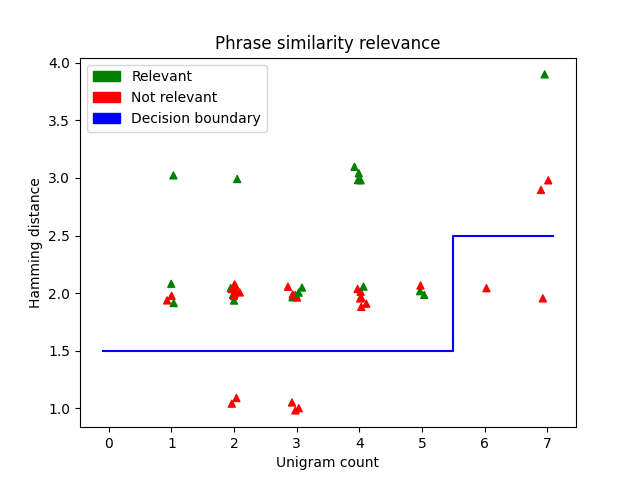
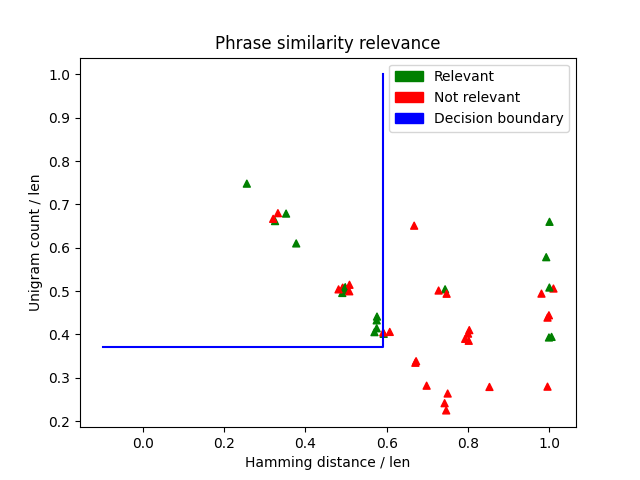
More on decision tree classifier for similar phrases

diff --git a/chinesenotes/plot_sim_training.py b/chinesenotes/plot_sim_training.py
@@ -45,19 +45,19 @@ def PlotResults(infile, outfile):
     if y[i] == 0:
       c = 'r'
     colors.append(c)
-    new_xval = x2[i] + random.normal(0.0, 0.05)
+    new_xval = x1[i] + random.normal(0.0, 0.01)
     x_fn_jitter.append(new_xval)
-    new_yval = x1[i] + random.normal(0.0, 0.05)
+    new_yval = x2[i] + random.normal(0.0, 0.01)
     y_fn_jitter.append(new_yval)
   #plt.figure(num=None, figsize=(4, 6))
   #plt.subplot(121)
   plt.scatter(x_fn_jitter, y_fn_jitter, c=colors, s=25, marker='^')
-  xd = [-0.1, 5.5, 5.5, 7.1]
-  yd = [1.5, 1.5, 2.5, 2.5]
+  xd = [-0.1, 0.59, 0.59]
+  yd = [0.37, 0.37, 1.0]
   plt.plot(xd, yd, color='blue')
   plt.title('Phrase similarity relevance')
-  plt.xlabel('Unigram count')
-  plt.ylabel('Hamming distance')
+  plt.xlabel('Hamming distance / len')
+  plt.ylabel('Unigram count / len')
   # plt.xticks([0, 1], ('False', 'True')) 
   # plt.ylim([-3, 20])
   green_data = mpatches.Patch(color='green', label='Relevant')
@@ -79,11 +79,12 @@ def load_training_data(infile):
       if reader.line_num == 1:  # Skip header row
         continue
       if len(row) > 8:
-        unigram_count = int(row[5])
-        hamming = float(row[6])
+        query = row[0]
+        unigram_count = int(row[5]) / (len(query) * 1.0)
+        hamming = float(row[6]) / (len(query) * 1.0)
         relevance = int(row[8])
-        x1.append(unigram_count)
-        x2.append(hamming)
+        x1.append(hamming)
+        x2.append(unigram_count)
         y.append(relevance)
       else:
         log(f'Could not understand row {row}')

diff --git a/chinesenotes/similarity_train.py b/chinesenotes/similarity_train.py
@@ -44,8 +44,10 @@ def Train(infile, outfile):
   clf = clf.fit(X, Y)
   dot_data = tree.export_graphviz(clf, filled = True, rounded = True)
   graph = graphviz.Source(dot_data) 
-  feature_names = ['Unigram count', 'Hamming distance']
+  feature_names = ['Unigram count / len', 'Hamming distance / len']
   class_names = ['Relevant', 'Not relevant']
+  r = tree.export_text(clf, feature_names=feature_names)
+  print(r)
   tree.plot_tree(clf,
                  feature_names=feature_names,
                  class_names=class_names,
@@ -64,8 +66,9 @@ def load_training_data(infile):
       if reader.line_num == 1:  # Skip header row
         continue
       if len(row) > 8:
-        unigram_count = int(row[5])
-        hamming = float(row[6])
+        query = row[0]
+        unigram_count = int(row[5])  / (len(query) * 1.0)
+        hamming = float(row[6])  / (len(query) * 1.0)
         relevance = int(row[8])
         x = [unigram_count, hamming]
         X.append(x)

diff --git a/README.md b/README.md
@@ -619,7 +619,17 @@ Train a decision tree classifier:
 
 ```shell
 python -m chinesenotes.similarity_train
+# output
+Training decision tree from data/phrase_similarity_classified.csv, output to drawings/phrase_similarity_tree.png
+|--- Unigram count / len <= 0.37
+|   |--- class: 0
+|--- Unigram count / len >  0.37
+|   |--- Hamming distance / len <= 0.59
+|   |   |--- class: 1
+|   |--- Hamming distance / len >  0.59
+|   |   |--- class: 0
 ```
+
 
 Plot the results
 
